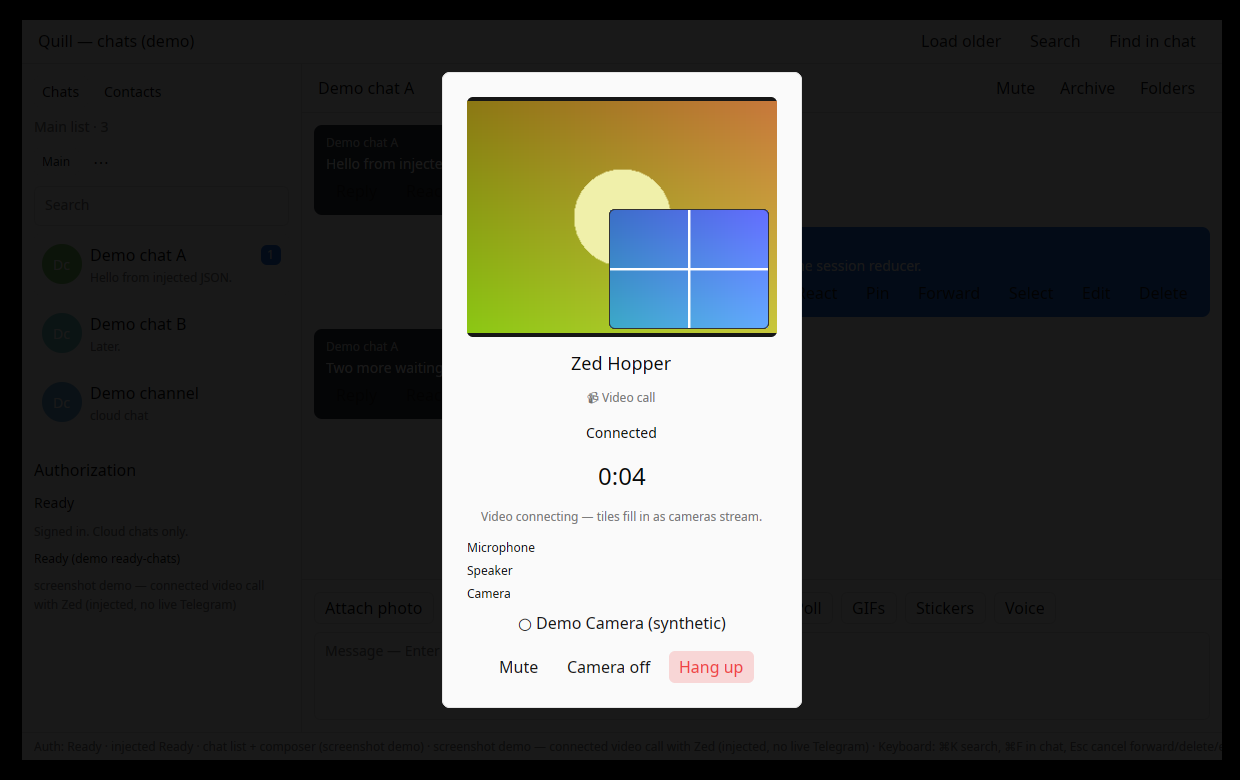
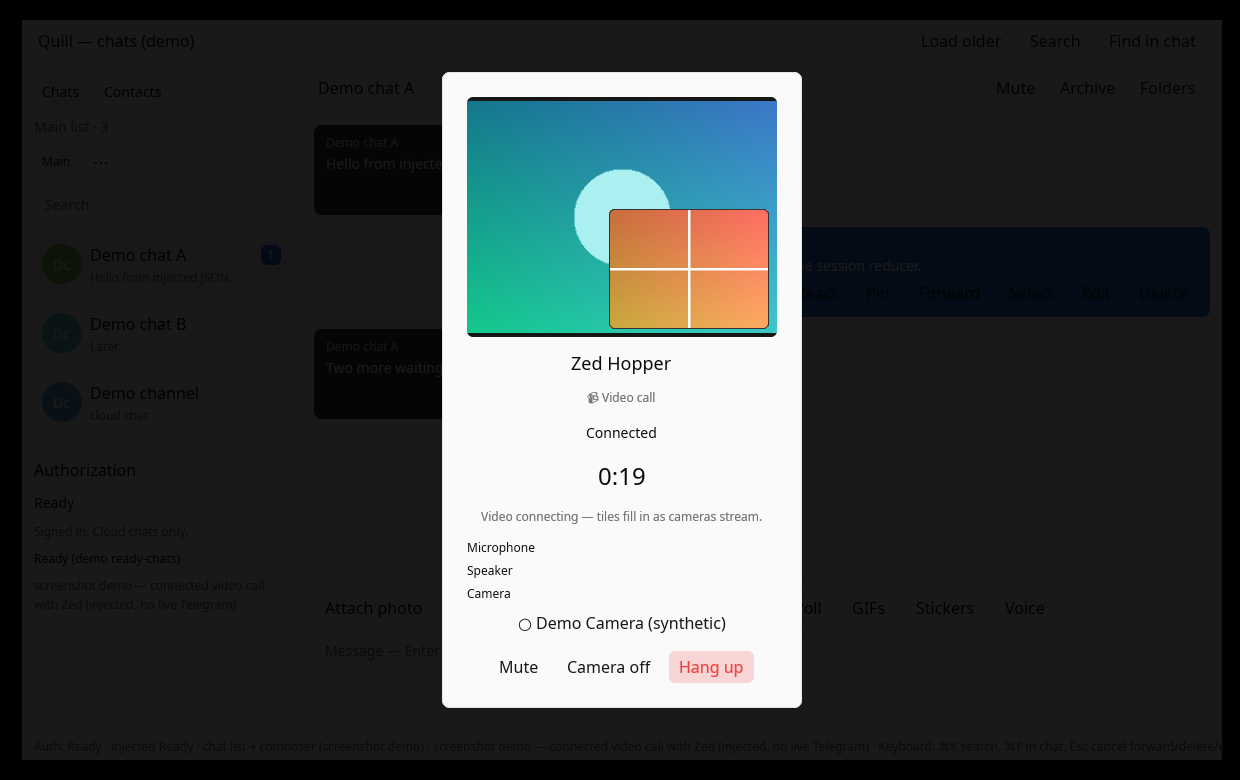
Review fixes: BGRA swap, camera transport gate, camera intent on reconnect
B1: video_render_image swaps R<->B before Frame::new (RenderImage is BGRA, engine delivers RGBA); re-captured ready-call-video.png. B2: set_call_camera/select_call_camera forward to the engine only when call.transport is_some (mirror of audio twins); select_call_camera docstring corrected. B3: call_connect_params derives video from is_video && camera_on so a pre-connect camera-off intent survives into the connect params.

diff --git a/src/connect.rs b/src/connect.rs
@@ -554,11 +554,14 @@ impl<S: JsonSender> ConnectDriver<S> {
             .filter(|engine| engine.is_available())
             .map(|engine| engine.protocol().library_versions)
             .unwrap_or_default();
-        let is_video = self
-            .session
-            .active_call
-            .as_ref()
-            .is_some_and(|call| call.is_video);
+        let is_video = self.session.active_call.as_ref().is_some_and(|call| {
+            // A camera toggle before the transport existed is stored in
+            // `camera_on` and must survive into the connect params (a
+            // camera-off toggle means the call is negotiated without
+            // video). At initial connect `camera_on == is_video`, so
+            // nothing changes there.
+            call.is_video && call.camera_on
+        });
         let (video_enabled, default_camera) = video_wanted(is_video, &self.call_devices_cache);
         let camera_input = video_enabled
             .then(|| self.selected_camera.clone().or(default_camera))
@@ -629,8 +632,8 @@ impl<S: JsonSender> ConnectDriver<S> {
 
     /// Phase C2e: camera toggle through the native engine. The engine is
     /// called first and its error propagates *without* flipping the
-    /// session flag (mirrors `set_call_muted`); a missing or unavailable
-    /// engine stores the intent so the toggle stays honest.
+    /// session flag (mirrors `set_call_muted`); without a connected
+    /// transport the intent is only stored (it applies on connect).
     pub fn set_call_camera(&mut self, call_id: i32, enabled: bool) -> Result<(), EngineError> {
         let Some(call) = self.session.active_call.as_mut() else {
             return Err(EngineError::NoActiveCall);
@@ -638,7 +641,8 @@ impl<S: JsonSender> ConnectDriver<S> {
         if call.id != call_id {
             return Err(EngineError::NoSuchCall(call_id));
         }
-        if let Some(engine) = self.call_engine.as_deref_mut()
+        if call.transport.is_some()
+            && let Some(engine) = self.call_engine.as_deref_mut()
             && engine.is_available()
         {
             engine.set_camera_enabled(call.id, enabled, self.selected_camera.as_deref())?;
@@ -648,10 +652,10 @@ impl<S: JsonSender> ConnectDriver<S> {
     }
 
     /// Phase C2e: pick the camera device id (`None` = engine default).
-    /// The selection is always stored; it is forwarded to the native
-    /// engine (with the current camera intent) whenever a call is
-    /// tracked, and a failed forward propagates before the stored
-    /// selection changes.
+    /// The selection is stored (so it applies on connect) and forwarded
+    /// to the native engine with the current camera intent only when a
+    /// transport is already connected; a failed forward propagates
+    /// before the stored selection changes.
     pub fn select_call_camera(&mut self, camera: Option<String>) -> Result<(), EngineError> {
         let camera_on = self
             .session
@@ -659,6 +663,7 @@ impl<S: JsonSender> ConnectDriver<S> {
             .as_ref()
             .is_some_and(|call| call.camera_on);
         if let Some(call) = self.session.active_call.as_ref()
+            && call.transport.is_some()
             && let Some(engine) = self.call_engine.as_deref_mut()
             && engine.is_available()
         {
@@ -12447,17 +12452,38 @@ mod tests {
     }
 
     /// Phase C2e: the UI camera toggle reaches the engine with the
-    /// call id, the new state, and the selected camera.
+    /// call id, the new state, and the selected camera — but only
+    /// once a transport exists; before that the intent is stored
+    /// cleanly (the real engine errors on an untracked call) so it
+    /// can apply on connect.
     #[test]
-    fn set_call_camera_drives_engine() {
-        let (dir, mut driver, handle, _sink, _seq) = ready_call_driver();
+    fn set_call_camera_gates_engine_on_transport() {
+        let (dir, mut driver, handle, sink, seq) = ready_call_driver();
+        // No transport yet: intent stored, engine untouched.
         assert!(driver.set_call_camera(77, false).is_ok());
-        assert_eq!(handle.camera_changes(), vec![(77, false, None)]);
+        assert!(handle.camera_changes().is_empty());
         assert!(!driver.session.active_call.as_ref().unwrap().camera_on);
+        // Transport connected: the toggle drives the engine.
+        ingest_call_json(&mut driver, &seq, &sink, READY_CALL_JSON);
+        assert!(driver.set_call_camera(77, true).is_ok());
+        assert_eq!(handle.camera_changes(), vec![(77, true, None)]);
+        assert!(driver.session.active_call.as_ref().unwrap().camera_on);
         assert_eq!(
             driver.set_call_camera(999, true),
             Err(crate::calls::engine::EngineError::NoSuchCall(999))
         );
+        let _ = std::fs::remove_dir_all(&dir);
+    }
+
+    /// Phase C2e: picking a camera before the transport exists stores
+    /// the selection cleanly without error and without an engine
+    /// forward.
+    #[test]
+    fn select_call_camera_without_transport_stores_selection() {
+        let (dir, mut driver, handle, _sink, _seq) = ready_call_driver();
+        assert!(driver.select_call_camera(Some("cam-1".into())).is_ok());
+        assert!(handle.camera_changes().is_empty());
+        assert_eq!(driver.selected_call_camera(), Some("cam-1"));
         let _ = std::fs::remove_dir_all(&dir);
     }
 
@@ -12467,6 +12493,44 @@ mod tests {
     fn connect_params_video_honors_no_camera() {
         let (dir, mut driver, handle, sink, seq) = ready_call_driver();
         driver.refresh_call_devices();
+        ingest_call_json(&mut driver, &seq, &sink, &ready_video_call_json());
+        let connects = handle.connects();
+        assert_eq!(connects.len(), 1);
+        assert!(!connects[0].1.video_enabled);
+        assert_eq!(connects[0].1.camera_input, None);
+        let _ = std::fs::remove_dir_all(&dir);
+    }
+
+    /// Phase C2e: a camera-off toggle set before the transport exists
+    /// survives into the connect params — the call is negotiated
+    /// without video even though a camera is available.
+    #[test]
+    fn connect_params_camera_off_intent_survives_pre_connect() {
+        let (dir, mut driver, _recorder, sink, seq) = call_driver();
+        let mock = MockEngine::new();
+        mock.set_devices(vec![MediaDevice {
+            id: "cam-1".into(),
+            name: "Test Cam".into(),
+            kind: MediaDeviceKind::Camera,
+        }]);
+        let handle = mock.clone();
+        driver.set_call_engine(Box::new(mock));
+        ingest_call_json(
+            &mut driver,
+            &seq,
+            &sink,
+            r#"{"@type":"updateAuthorizationState","authorization_state":{"@type":"authorizationStateReady"}}"#,
+        );
+        ingest_call_json(
+            &mut driver,
+            &seq,
+            &sink,
+            r#"{"@type":"updateCall","call":{"@type":"call","id":77,"unique_id":"99","user_id":41,"is_outgoing":true,"is_video":true,"state":{"@type":"callStatePending","is_created":true,"is_received":false}}}"#,
+        );
+        // Camera toggled off before the transport exists: stores the
+        // intent without an engine forward.
+        assert!(driver.set_call_camera(77, false).is_ok());
+        assert!(handle.camera_changes().is_empty());
         ingest_call_json(&mut driver, &seq, &sink, &ready_video_call_json());
         let connects = handle.connects();
         assert_eq!(connects.len(), 1);

diff --git a/src/ui/mod.rs b/src/ui/mod.rs
@@ -5119,11 +5119,16 @@ impl QuillApp {
     /// handle, exactly like `decode_viewer_frames`. `None` on malformed
     /// bytes — never render garbage.
     fn video_render_image(frame: &quill::calls::engine::VideoFrame) -> Option<Arc<RenderImage>> {
-        let rgba = image::RgbaImage::from_raw(
+        let mut rgba = image::RgbaImage::from_raw(
             u32::from(frame.width),
             u32::from(frame.height),
             frame.rgba.clone(),
         )?;
+        // GPUI holds RenderImage pixels in BGRA (its own decoder swaps
+        // R<->B after into_rgba8); the engine delivers RGBA, so swap here.
+        for pixel in rgba.chunks_exact_mut(4) {
+            pixel.swap(0, 2);
+        }
         Some(Arc::new(RenderImage::new(SmallVec::from_buf([
             image::Frame::new(rgba),
         ]))))

diff --git a/DECISIONS.md b/DECISIONS.md
@@ -3548,7 +3548,7 @@ device list renders honestly.
 - **`ntg_add_incoming_video` negative claim (carried from session 1):**
   search strategy was C++ source inspection of the pinned ntgcalls
   v3.0.0 tree: the method is declared only on `GroupCall`
-  (`include/ntgcalls/instances/group_call.hpp:32-34`); the public
+  (`ntgcalls/include/ntgcalls/instances/group_call.hpp:32-34`); the public
   `NTgCalls::add_incoming_video` casts via `safe_call` to `GroupCall`,
   which throws on a P2P call; `P2PCall::connect` auto-adds the incoming
   camera track, so 1:1 peer frames arrive unsolicited through
